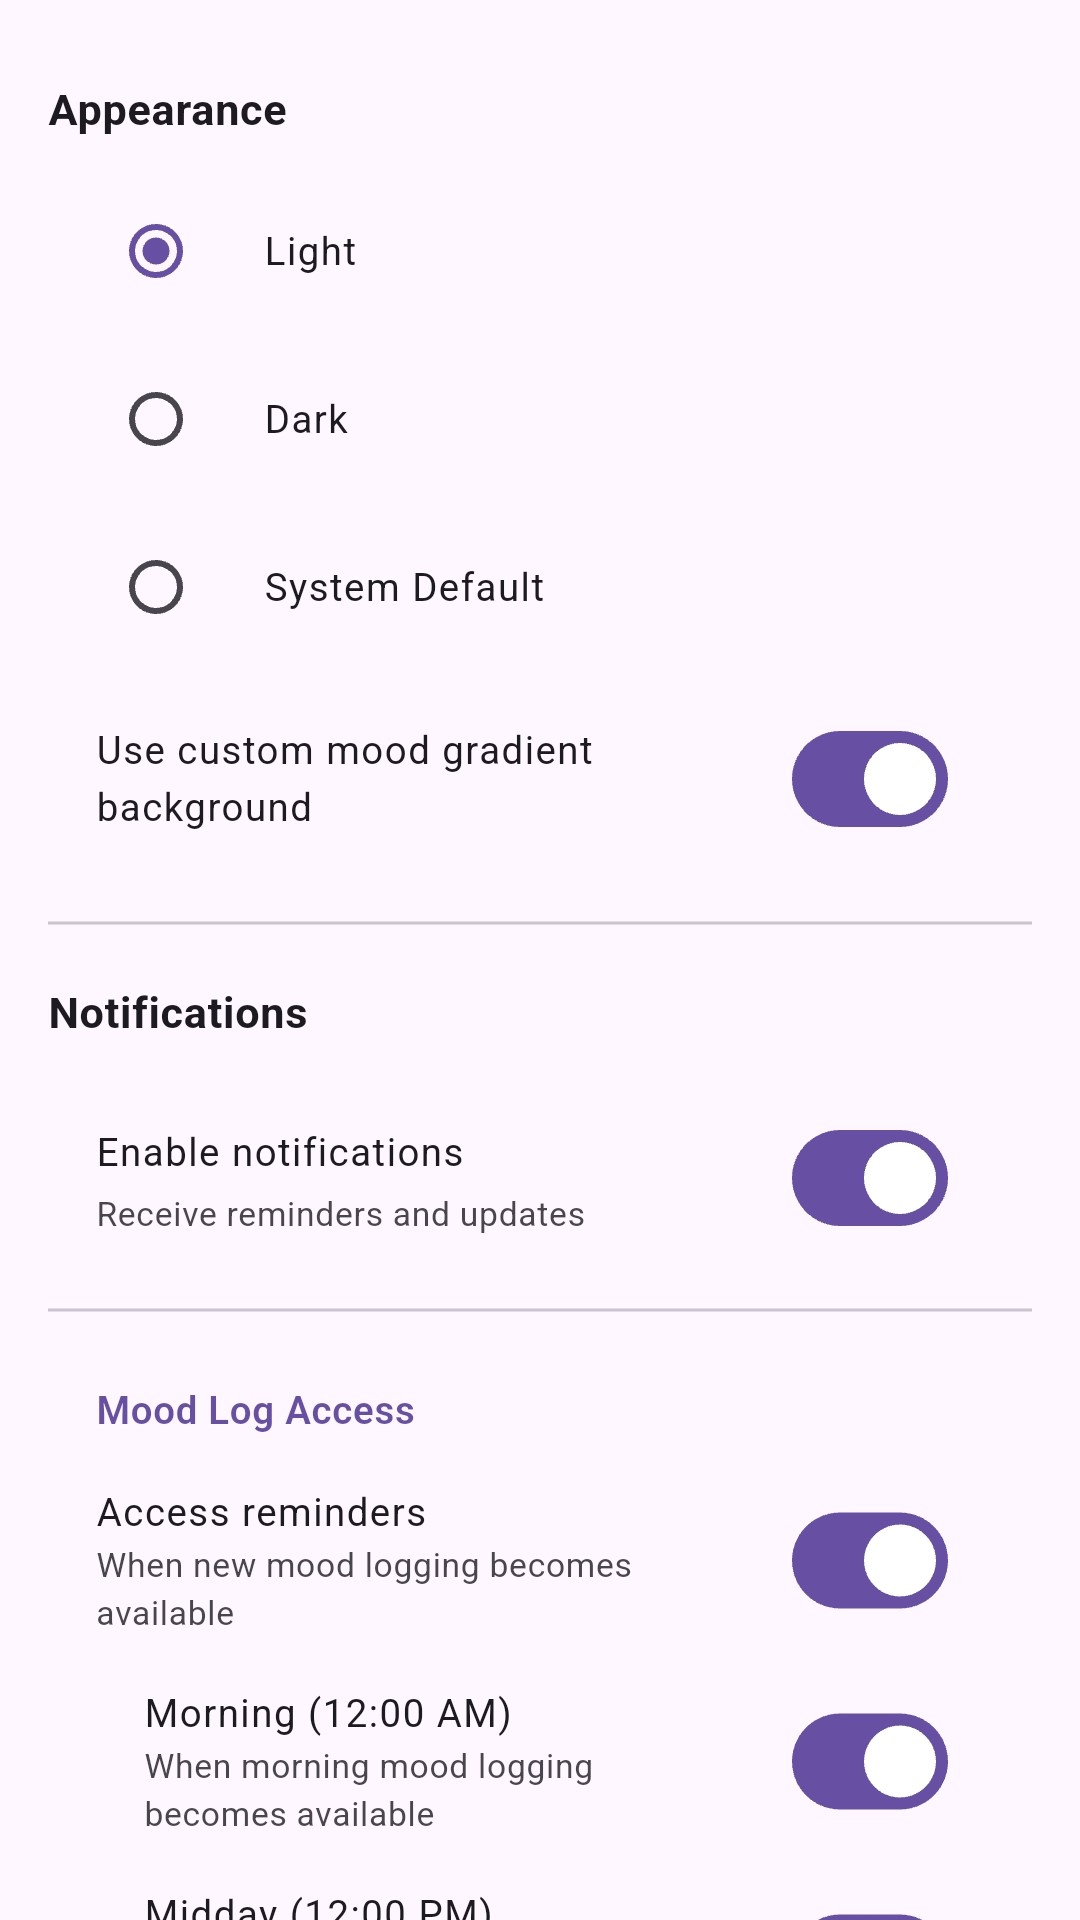
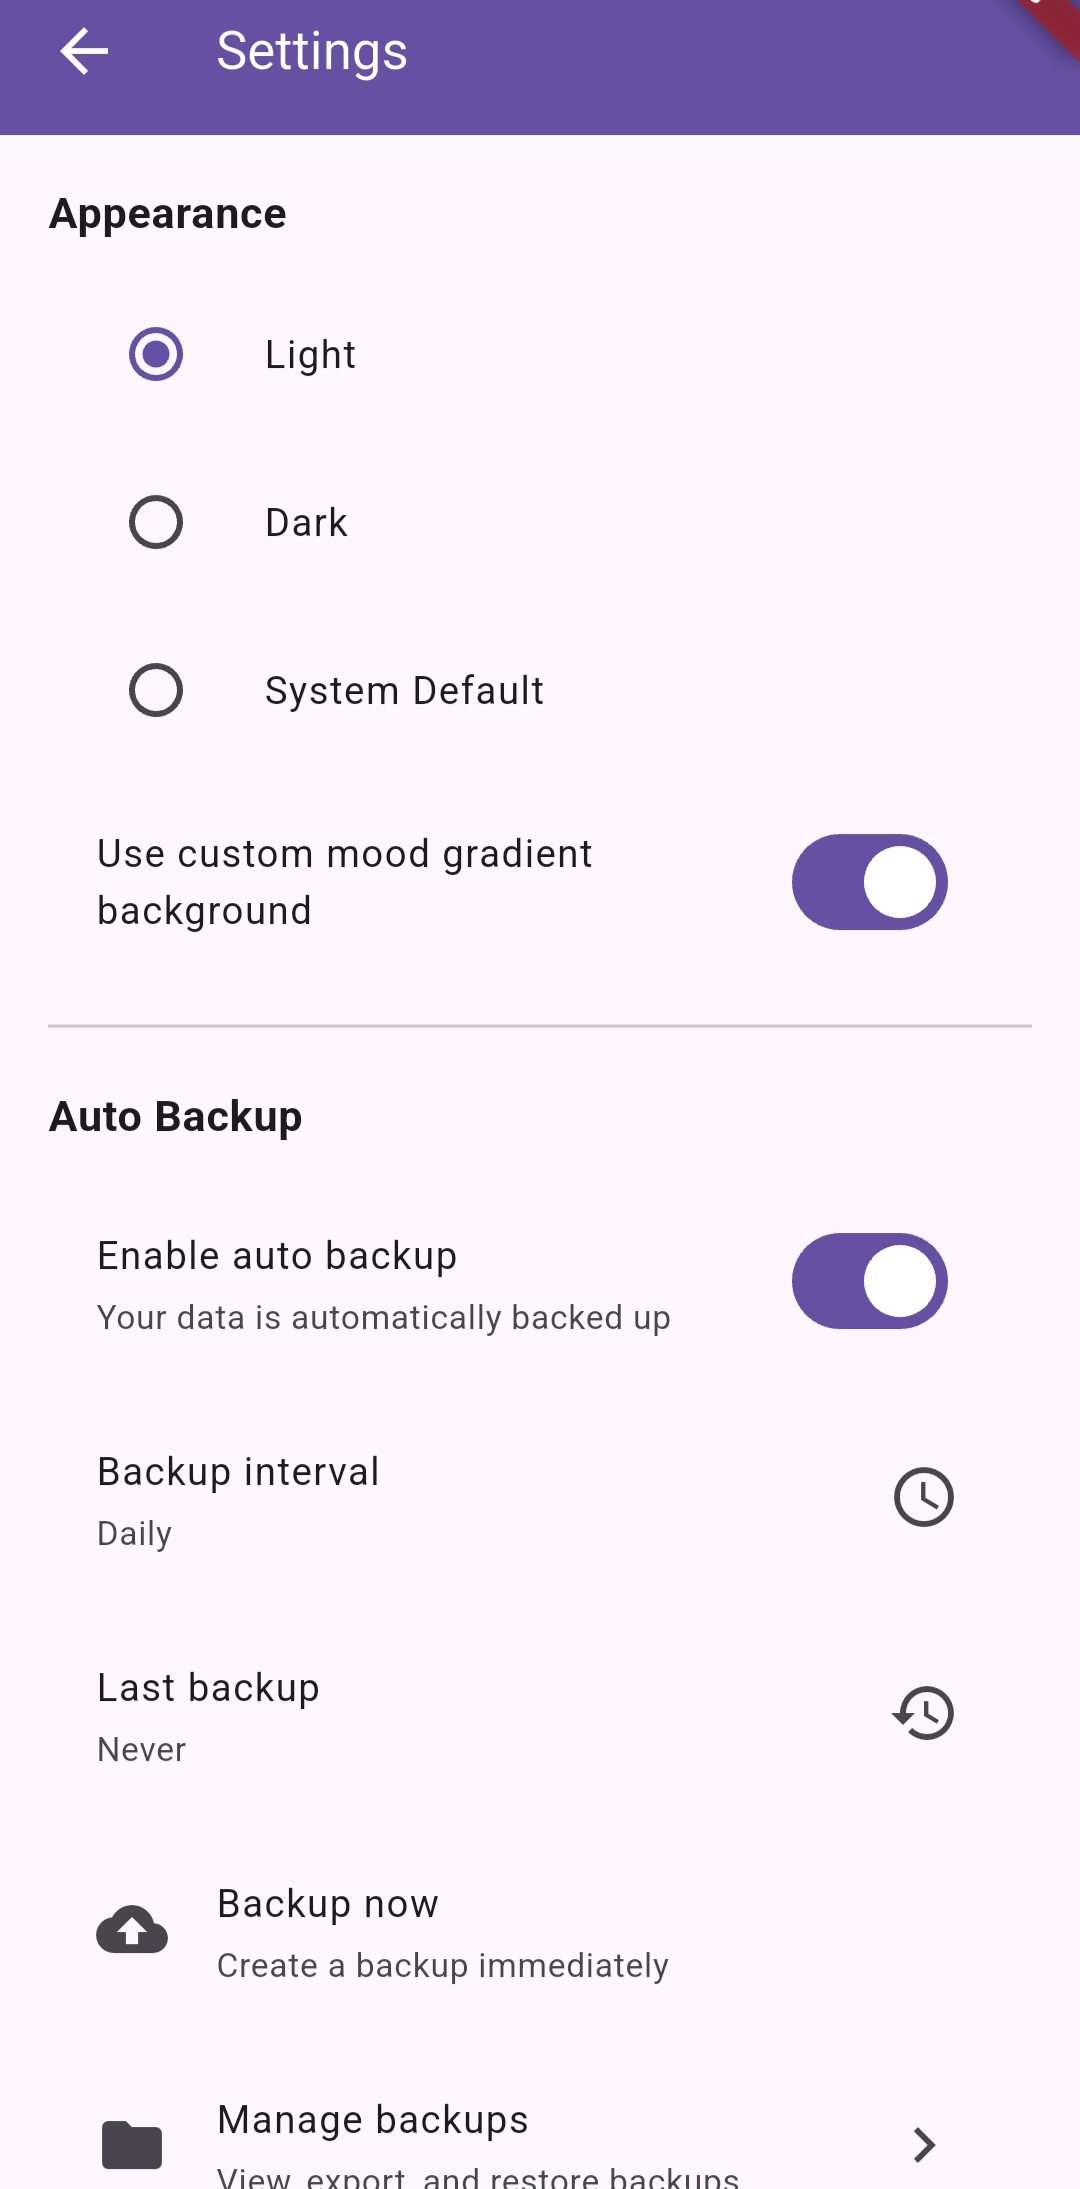
Updated readme.md

diff --git a/readme.md b/readme.md
@@ -94,11 +94,15 @@ lib/
 │   ├── mood_trends_screen.dart
 │   ├── goals_screen.dart
 │   ├── ai_analysis_screen.dart
-│   └── settings_screen.dart
+│   ├── settings_screen.dart
+│   └── [additional files]
 ├── services/                 # Business logic
 │   ├── ai/                 # AI services
 │   ├── animation/           # Animation services
 │   ├── data/               # Data management
+│   ├── backup/              # Backup services
+│   ├── import/               # Import services
+│   ├── notifications/           # Notification services
 │   └── ui/                 # UI utilities
 ├── widgets/                 # Reusable components
 │   ├── animated_mood_slider.dart
@@ -130,6 +134,12 @@ lib/
 - Identify your peak emotional times of day
 - Track logging streaks and consistency
 
+### AI Analysis
+- Currently, requires your own OpenAI API Key
+- Specify date ranges to analyze
+- Key Insights (Trends for negative and positive moods)
+- Recommendations based on given factors (NOT PROFESSIONAL)
+
 ## 🔧 Configuration
 
 ### Notifications
@@ -158,10 +168,10 @@ flutter test integration_test
 
 ## 📊 Data & Privacy
 
-- **Local Storage**: All data stored locally on device using SharedPreferences
-- **No Cloud Sync**: Your mood data never leaves your device
+- **Local Storage**: Data stored locally on device using SharedPreferences
+- **Cloud Sync**: Your data can be saved through the iCloud and Google Cloud
 - **No Analytics**: No user tracking or data collection
-- **Export/Import**: Manual backup through device storage access
+- **Export/Import**: Manual backup through device storage access available
 
 ## 🤝 Contributing
 
@@ -199,11 +209,11 @@ For support and questions:
 ## 🗺 Roadmap
 
 ### Upcoming Features
-- [ ] Data export/import functionality
+- [X] Data export/import functionality
 - [ ] Mood correlation with weather/activities
 - [X] Advanced AI statistical analysis
 - [ ] Widget support for home screen
-- [ ] Backup and sync options
+- [X] Backup and sync options
 - [ ] Accessibility improvements
 
 ### Long-term Goals
@@ -223,7 +233,23 @@ For support and questions:
 ### Trends & Analytics
 | Trends Overview | Detailed Analytics |
 |-----------------|-------------------|
-| ![Trends 1](screenshots/trends1.jpg) | ![Trends 2](screenshots/trends2.jpg) |
+| ![Trends Overview](screenshots/trends1.jpg) | ![Detailed Analytics](screenshots/trends2.jpg) |
+
+### AI Analysis
+| AI Analysis | Disclaimer |
+|-------------|------------|
+| ![AI Analysis](screenshots/aianalyze.jpg) | ![Disclaimer](screenshots/aianalyzedisclaimer.jpg) |
+
+### AI Analysis Results
+| Result 1 | Result 2 |
+|----------|----------|
+| ![Result 1](screenshots/airesult1.jpg) | ![Result 2](screenshots/airesult2.jpg) |
+
+### Backup & Export
+| Export | Cloud Backup | Restore |
+|--------|--------------|---------|
+| ![Export](screenshots/export.jpg) | ![Cloud Backup](screenshots/cloudbackup.jpg) | ![Restore](screenshots/restore.jpg) |
+
 
 ### Goals & Progress
 | Goals Dashboard | Goal Details |
@@ -231,9 +257,11 @@ For support and questions:
 | ![Goals 1](screenshots/goals1.jpg) | ![Goals 2](screenshots/goals2.jpg) |
 
 ### Settings & Customization
-| Themes & Basic Notifications | Advanced Notifications | Notification Preferences |
-|------------------------------|------------------------|--------------------------|
-| ![Settings 1](screenshots/settings1.jpg) | ![Settings 2](screenshots/settings2.jpg) | ![Settings 3](screenshots/settings3.jpg) |
+| Themes & Basic Notifications | Backup Options | Advanced Notifications |
+|------------------------------|----------------|------------------------|
+| ![Settings 1](screenshots/settings1.jpg) | ![Settings Backup](screenshots/settingsbackup.jpg) | ![Settings 3](screenshots/settings2.jpg) |
+
+
 
 *Extensive notification customization with granular control over reminders, timing, and preferences*
 
